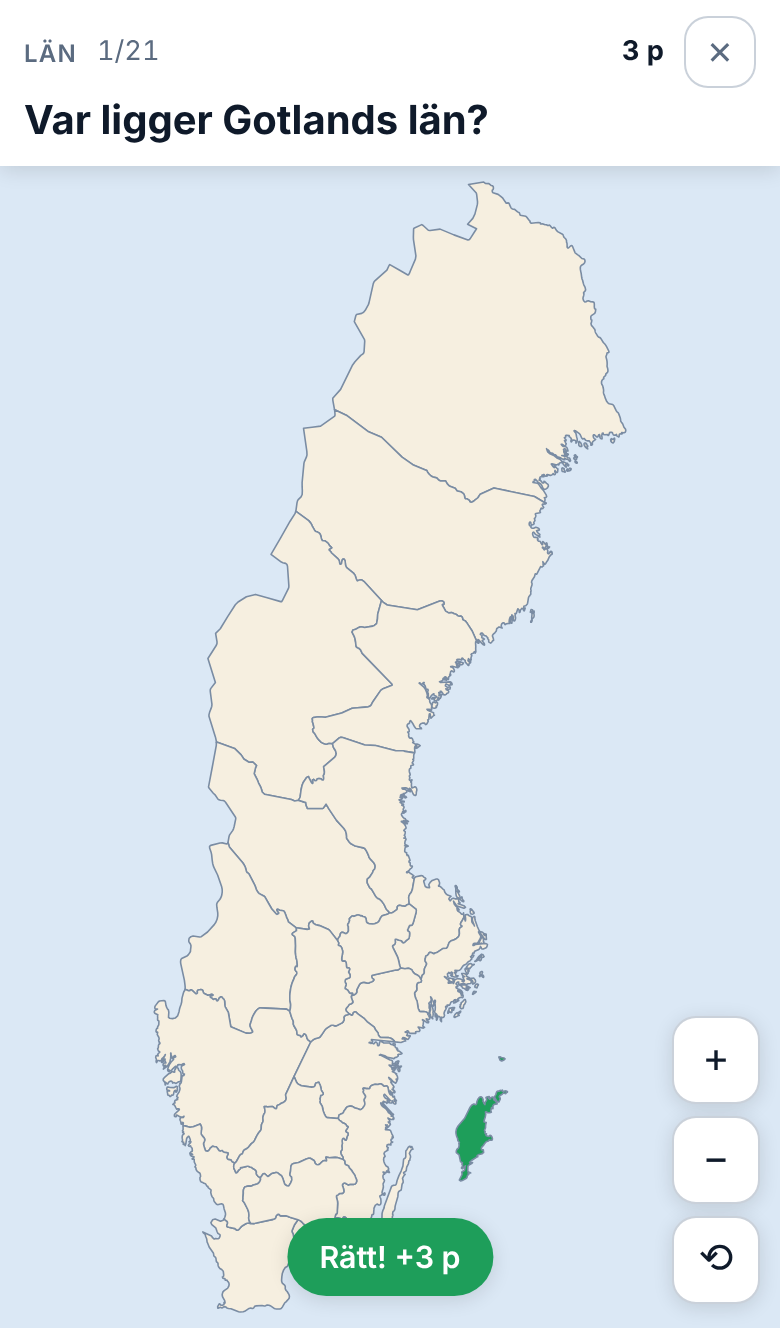
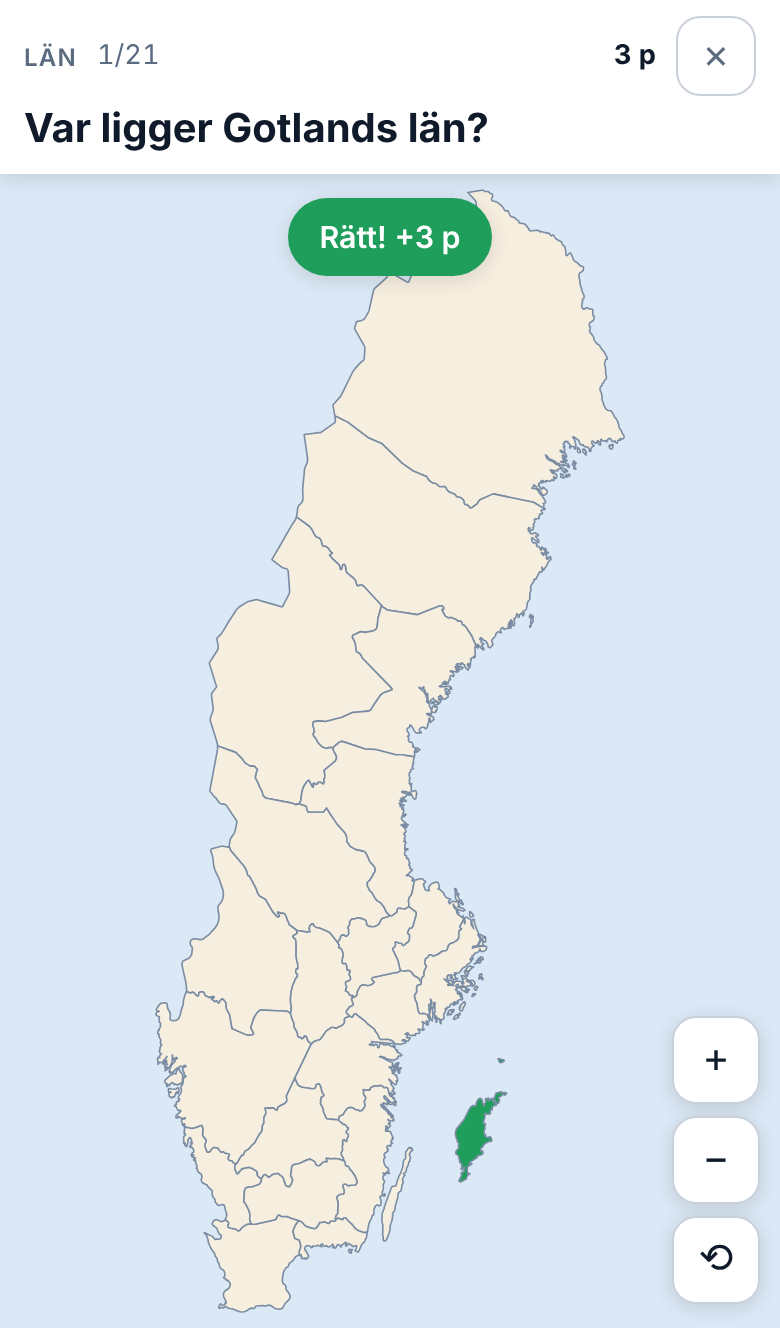
Fix toast placement, hit areas for small counties and tooltip spoiler
- Toast now sits at the top of the map so it no longer covers Skåne/Blekinge.
- Invisible hit halos around Blekinge and Gotland make them tappable
  without zooming; disabled once the map is zoomed in.
- Remove <title> tooltips that revealed county names on hover.
- Ignore clicks within 300 ms so a double tap does not cost two attempts.
- Add robots.txt, slightly larger close button, updated screenshot.

Claude-Session: https://claude.ai/code/session_01VUqbv5qcEmvzPMHG6kZ1Fr

diff --git a/src/map/map.ts b/src/map/map.ts
@@ -33,6 +33,8 @@ interface Marker {
 const MIN_ZOOM = 1;
 const MAX_ZOOM = 10;
 const PADDING = 8;
+/** Län som är så små på skärmen att de får en extra osynlig träffyta. */
+const SMALL_COUNTIES: ReadonlySet<string> = new Set(['K', 'I']);
 
 /**
  * SVG-karta över Sveriges län med d3-geo-projektion och pinch-zoom/pan via d3-zoom.
@@ -42,6 +44,7 @@ export class SwedenMap {
   private readonly svg: Selection<SVGSVGElement, unknown, null, undefined>;
   private readonly root: Selection<SVGGElement, unknown, null, undefined>;
   private readonly countiesG: Selection<SVGGElement, unknown, null, undefined>;
+  private readonly hitG: Selection<SVGGElement, unknown, null, undefined>;
   private readonly markersG: Selection<SVGGElement, unknown, null, undefined>;
   private readonly zoomBehavior: ZoomBehavior<SVGSVGElement, unknown>;
   private readonly projection: GeoProjection;
@@ -78,6 +81,7 @@ export class SwedenMap {
       .attr('aria-label', 'Karta över Sveriges län');
     this.root = this.svg.append('g').attr('class', 'map-root');
     this.countiesG = this.root.append('g').attr('class', 'counties');
+    this.hitG = this.root.append('g').attr('class', 'county-hits');
     this.markersG = this.root.append('g').attr('class', 'markers');
 
     this.countiesG
@@ -85,9 +89,15 @@ export class SwedenMap {
       .data(this.features)
       .join('path')
       .attr('class', 'county')
-      .attr('data-code', (d) => d.properties.code)
-      .append('title')
-      .text((d) => d.properties.name);
+      .attr('data-code', (d) => d.properties.code);
+
+    // Osynliga "träffhalos" runt de minsta länen så de går att träffa med fingret utan zoom.
+    this.hitG
+      .selectAll('path')
+      .data(this.features.filter((d) => SMALL_COUNTIES.has(d.properties.code)))
+      .join('path')
+      .attr('class', 'county-hit')
+      .attr('data-code', (d) => d.properties.code);
 
     this.zoomBehavior = zoom<SVGSVGElement, unknown>()
       .scaleExtent([MIN_ZOOM, MAX_ZOOM])
@@ -123,6 +133,7 @@ export class SwedenMap {
       this.collection as GeoPermissibleObjects,
     );
     this.countiesG.selectAll<SVGPathElement, CountyFeature>('path').attr('d', (d) => this.path(d));
+    this.hitG.selectAll<SVGPathElement, CountyFeature>('path').attr('d', (d) => this.path(d));
     this.zoomBehavior.translateExtent([
       [0, 0],
       [w, h],
@@ -135,7 +146,7 @@ export class SwedenMap {
     const [x, y] = pointer(event, this.root.node());
     const lonLat = this.projection.invert?.([x, y]);
     if (!lonLat) return;
-    const target = (event.target as Element | null)?.closest?.('path.county') as SVGPathElement | null;
+    const target = (event.target as Element | null)?.closest?.('path[data-code]') as SVGPathElement | null;
     const code = target?.dataset.code ?? null;
     this.onClick({ code, lon: lonLat[0], lat: lonLat[1] });
   }

diff --git a/src/style.css b/src/style.css
@@ -378,6 +378,18 @@ a {
   }
 }
 
+.county-hit {
+  fill: none;
+  stroke: transparent;
+  stroke-width: 12px;
+  vector-effect: non-scaling-stroke;
+  pointer-events: stroke;
+}
+
+.map-svg.is-zoomed .county-hit {
+  pointer-events: none;
+}
+
 .marker {
   pointer-events: none;
 }
@@ -441,17 +453,20 @@ a {
 }
 
 .hud .icon-btn {
-  width: 36px;
-  height: 36px;
+  width: 40px;
+  height: 40px;
   box-shadow: none;
   font-size: 1rem;
 }
 
 .toast {
   position: absolute;
-  left: 50%;
-  bottom: calc(16px + var(--safe-bottom));
-  transform: translate(-50%, 20px);
+  left: 12px;
+  right: 12px;
+  top: 12px;
+  width: fit-content;
+  margin: 0 auto;
+  transform: translateY(-12px);
   max-width: min(92%, 520px);
   padding: 10px 16px;
   border-radius: 999px;
@@ -469,7 +484,7 @@ a {
 
 .toast.is-visible {
   opacity: 1;
-  transform: translate(-50%, 0);
+  transform: translateY(0);
 }
 
 .toast-ok {

diff --git a/src/main.ts b/src/main.ts
@@ -78,6 +78,7 @@ async function showGame(mode: Mode): Promise<void> {
   const game = new Game(mode);
   let locked = false;
   let timer: number | undefined;
+  let lastClickAt = 0;
 
   const updateHud = () => {
     progress.textContent = `${game.number}/${game.total}`;
@@ -124,6 +125,10 @@ async function showGame(mode: Mode): Promise<void> {
 
   map.onClick = (click: MapClick) => {
     if (locked) return;
+    // Oavsiktliga dubbeltryck ska inte kosta två försök.
+    const now = performance.now();
+    if (now - lastClickAt < CONFIG.doubleTapGuardMs) return;
+    lastClickAt = now;
     const q = game.current;
     if (!q) return;
 

diff --git a/src/ui/screens.ts b/src/ui/screens.ts
@@ -39,7 +39,7 @@ export function renderStart(onStart: (mode: Mode) => void): HTMLElement {
     el(
       'p',
       { class: 'rules' },
-      `${CONFIG.pointsByAttempt.join(' / ')} poäng för rätt på första / andra / tredje försöket. Nypa för att zooma på kartan.`,
+      `${CONFIG.pointsByAttempt.join(' / ')} poäng för rätt på första / andra / tredje försöket. Nypa eller scrolla för att zooma på kartan.`,
     ),
   );
 }

diff --git a/src/game/config.ts b/src/game/config.ts
@@ -10,6 +10,8 @@ export const CONFIG = {
   revealMs: 1500,
   /** Hur länge (ms) en kort feedback-toast visas. */
   toastMs: 1200,
+  /** Klick tätare än så här (ms) ignoreras, så ett dubbeltryck inte kostar två försök. */
+  doubleTapGuardMs: 300,
 };
 
 /**
